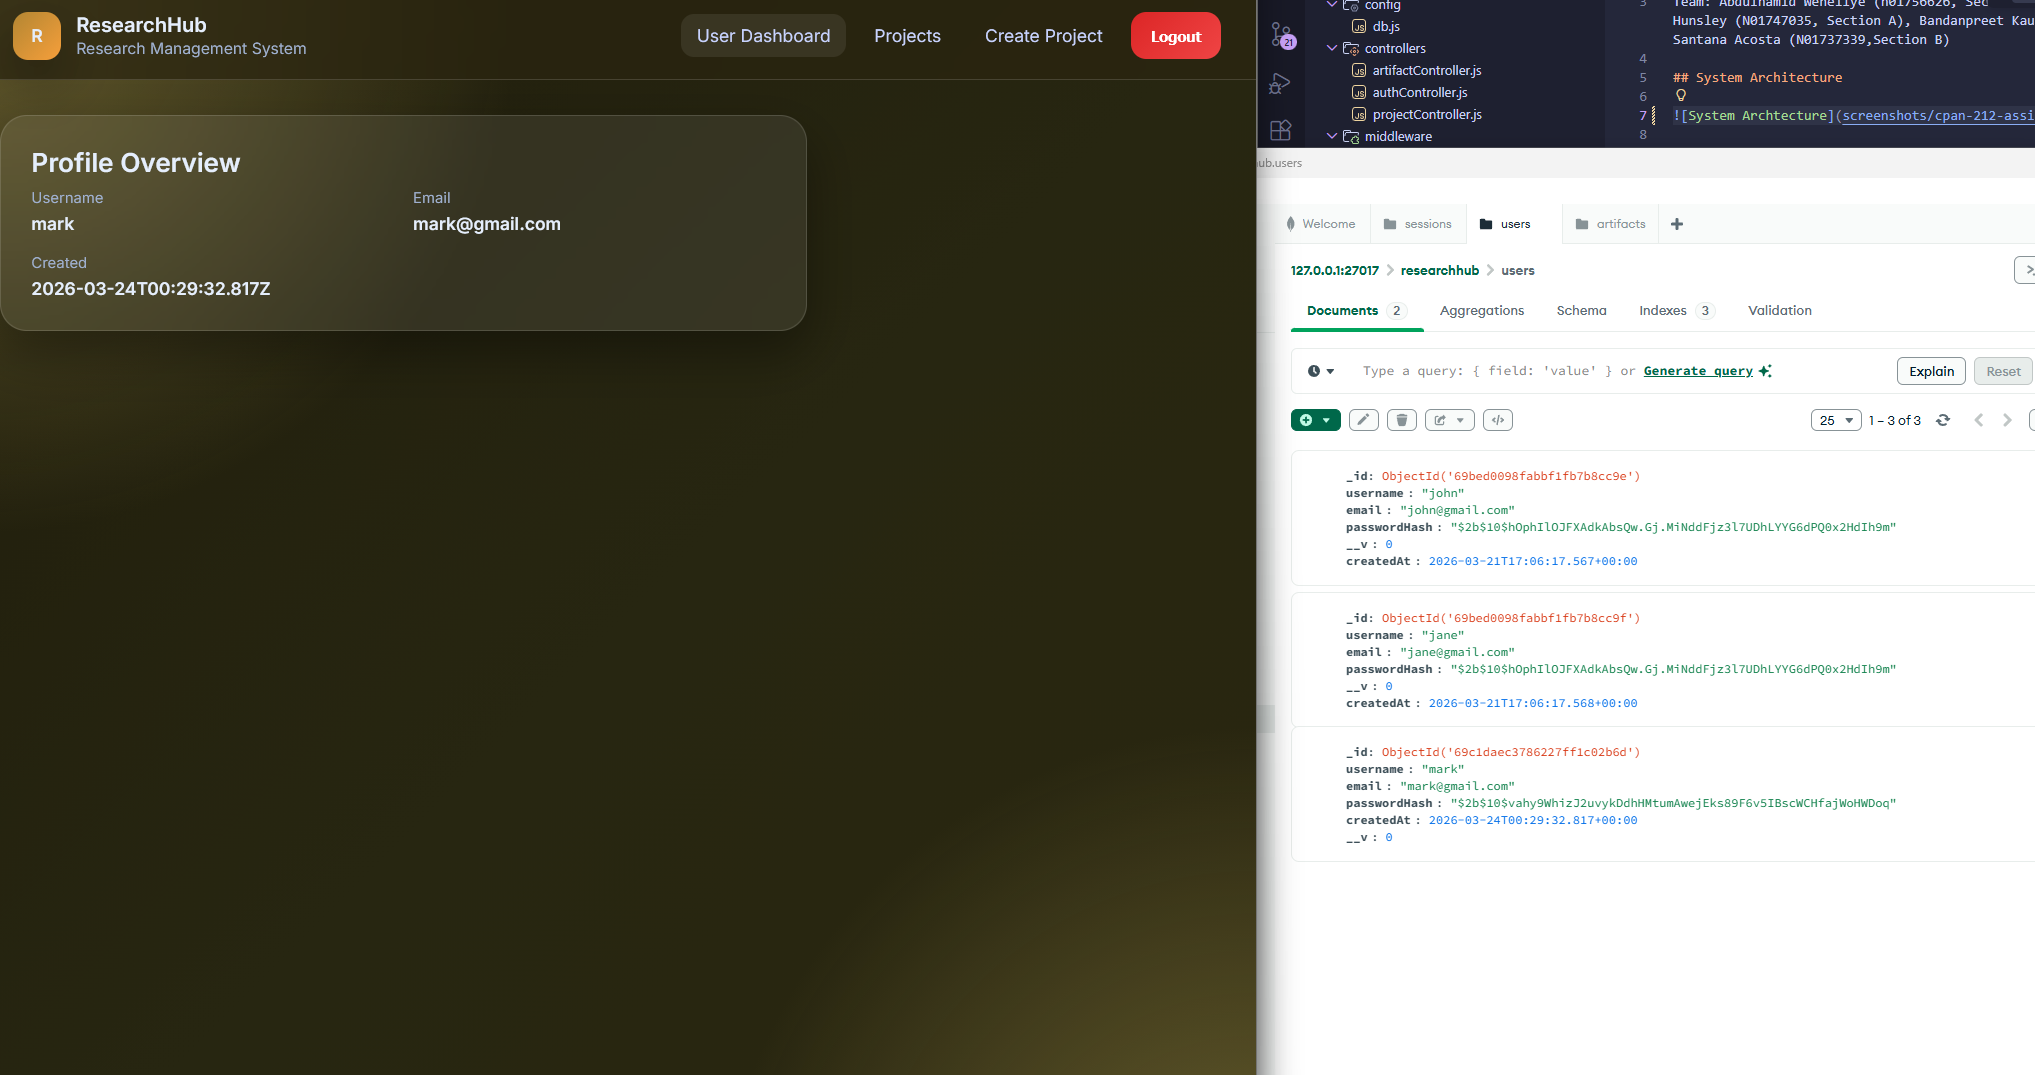
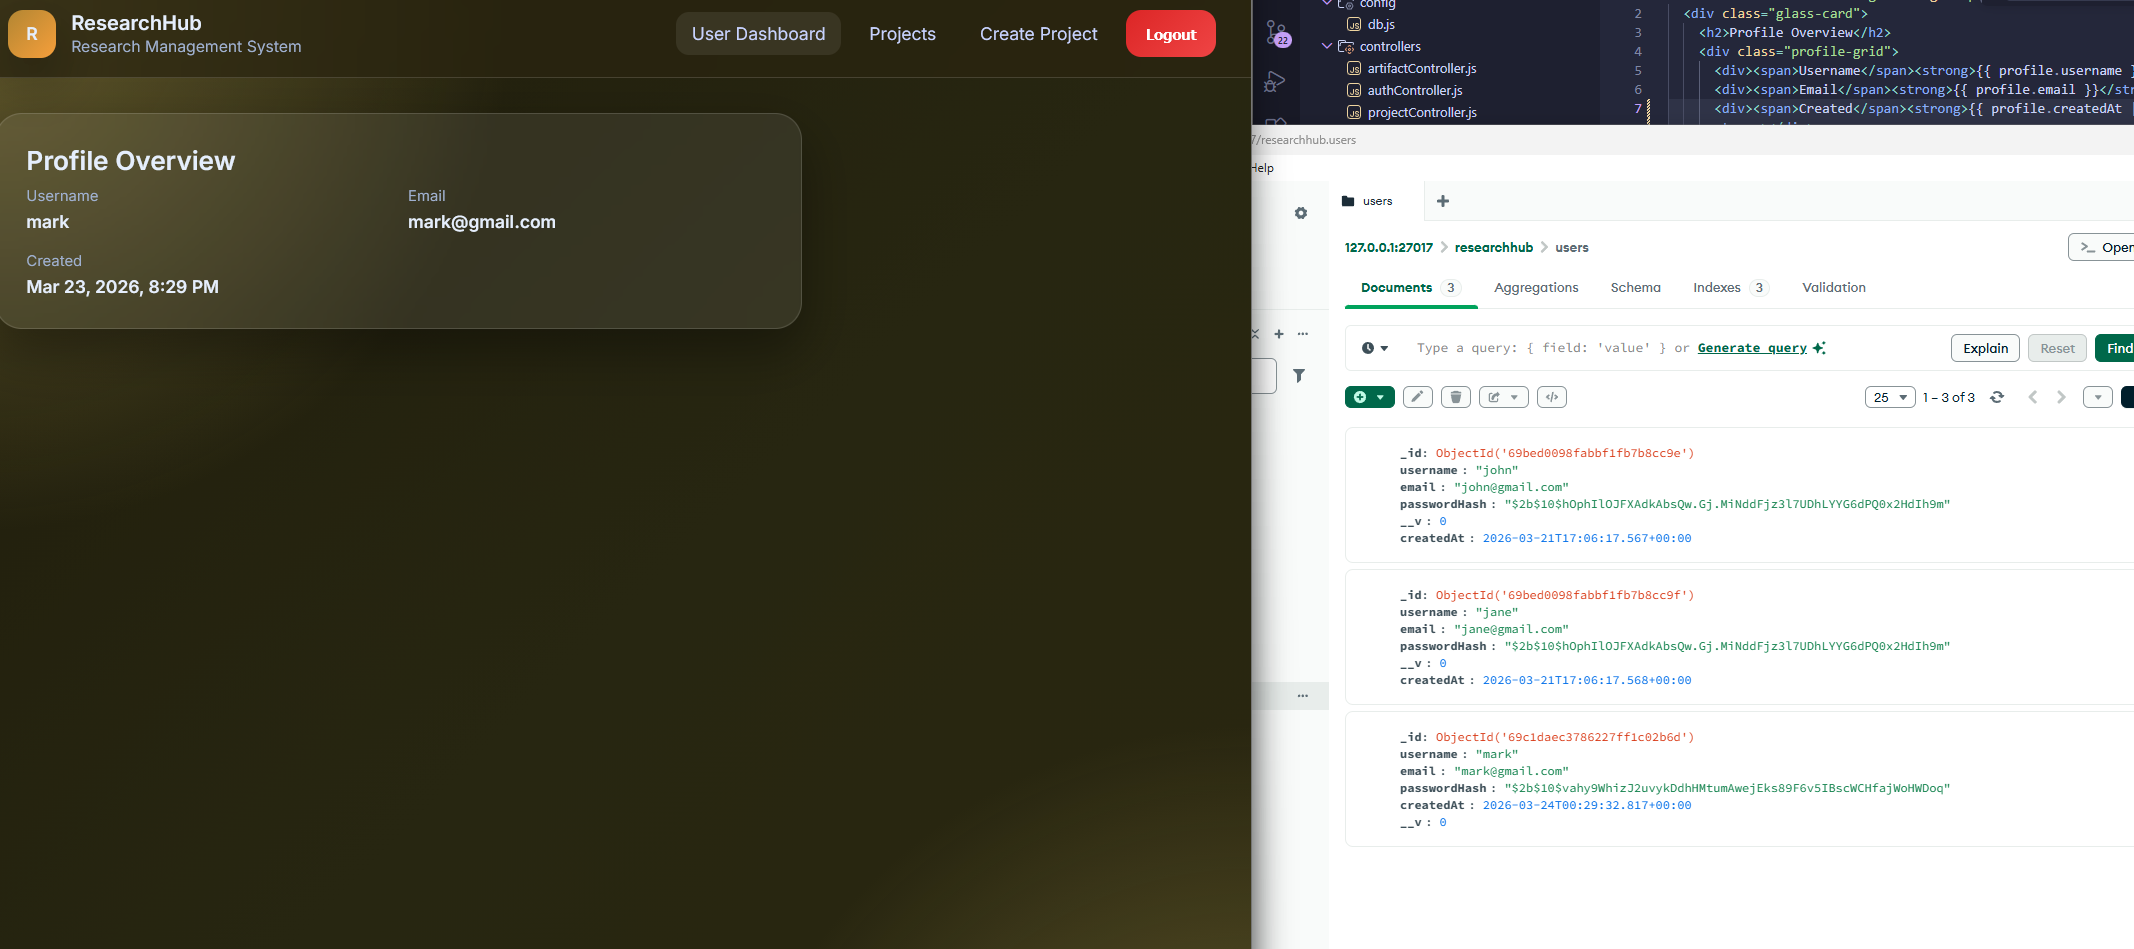
Updated UI date display and screenshots

diff --git a/frontend/src/app/pages/profile/profile.component.html b/frontend/src/app/pages/profile/profile.component.html
@@ -4,7 +4,7 @@
     <div class="profile-grid">
       <div><span>Username</span><strong>{{ profile.username }}</strong></div>
       <div><span>Email</span><strong>{{ profile.email }}</strong></div>
-      <div><span>Created</span><strong>{{ profile.createdAt }}</strong></div>
+      <div><span>Created</span><strong>{{ profile.createdAt | date: "MMM d, y, h:mm a"}}</strong></div>
     </div>
   </div>
 </section>

diff --git a/frontend/src/app/pages/artifacts/artifacts.component.html b/frontend/src/app/pages/artifacts/artifacts.component.html
@@ -26,8 +26,8 @@
         <h2>{{art.researchField}}</h2>
         <p>{{ art.description }}</p>
       <div class="doc-meta">
-      <span>Created: {{ art.createdAt }}</span>
-      <span>Updated: {{ art.updatedAt }}</span>
+      <span>Created: {{ art.createdAt | date: "MMM d, y, h:mm a" }}</span>
+      <span>Updated: {{ art.updatedAt | date: "MMM d, y, h:mm a"}}</span>
       </div>
       </div>
     </div>
